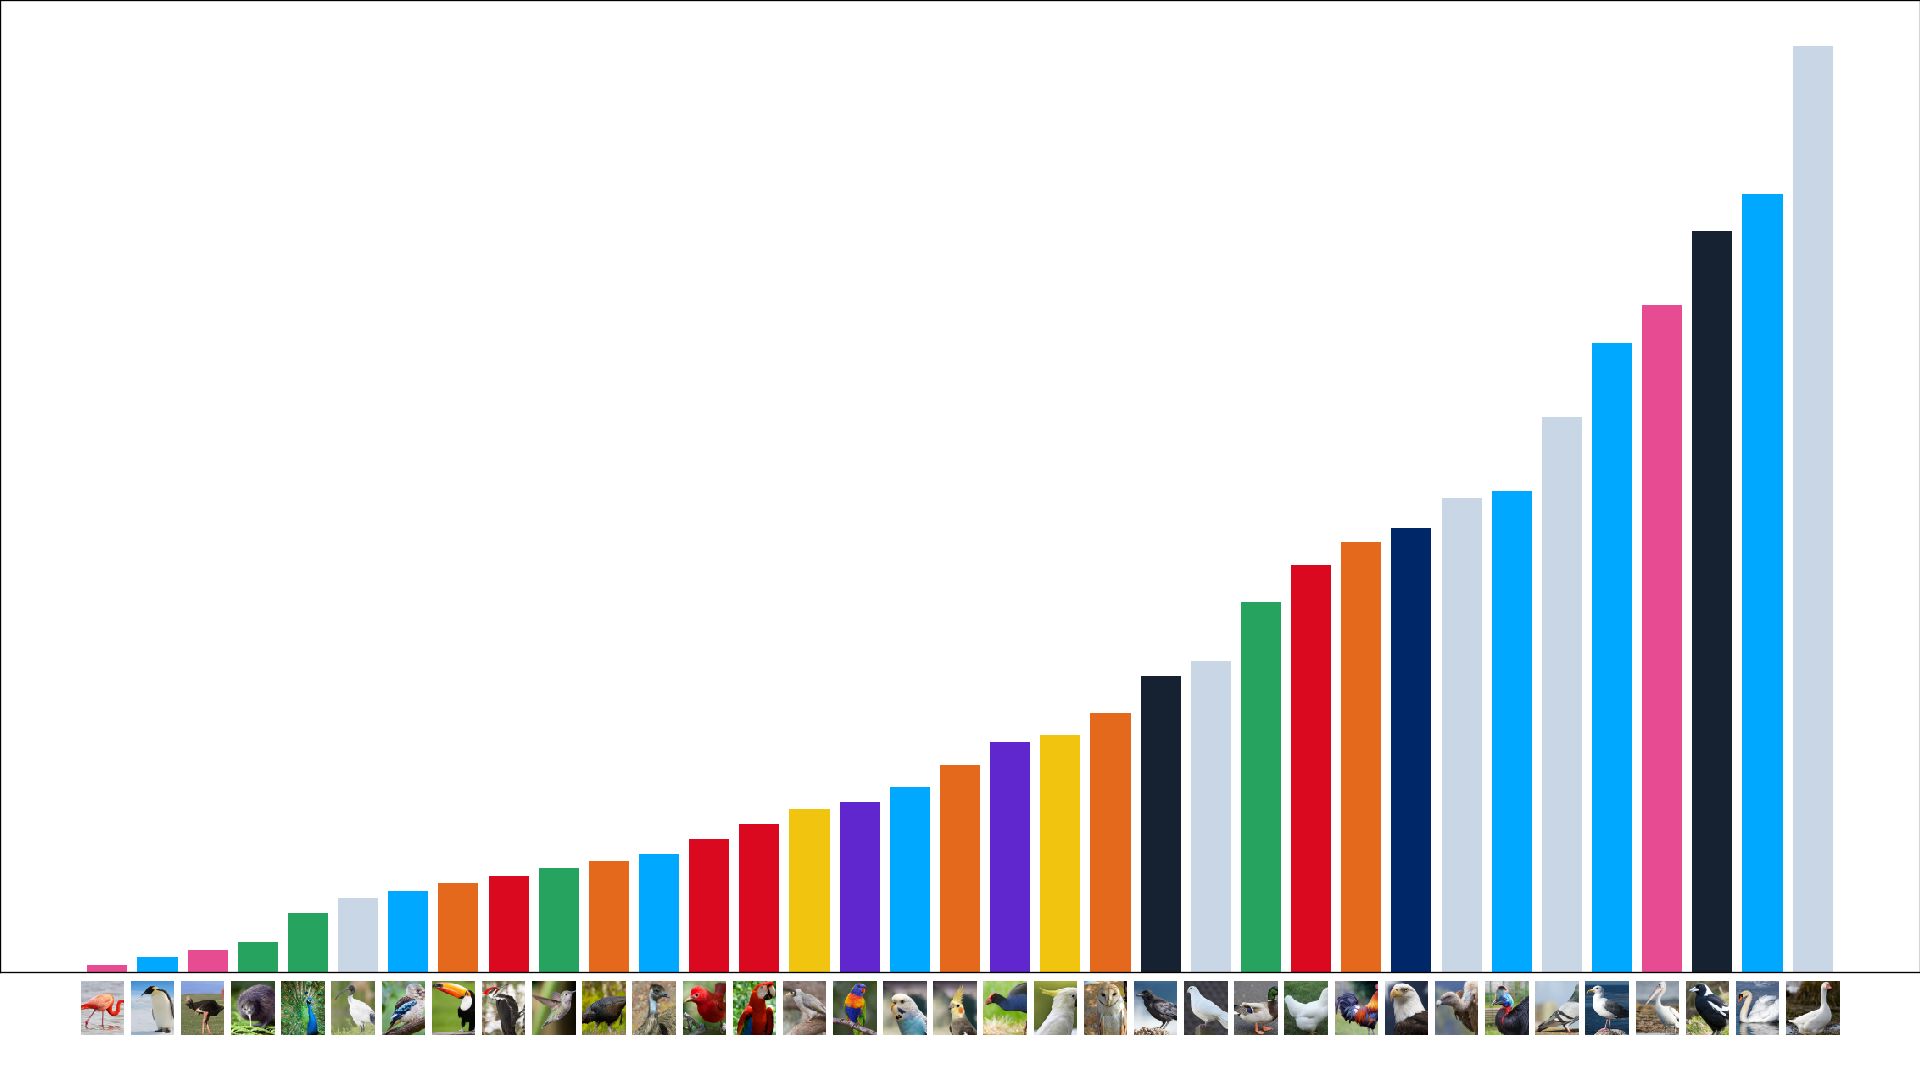
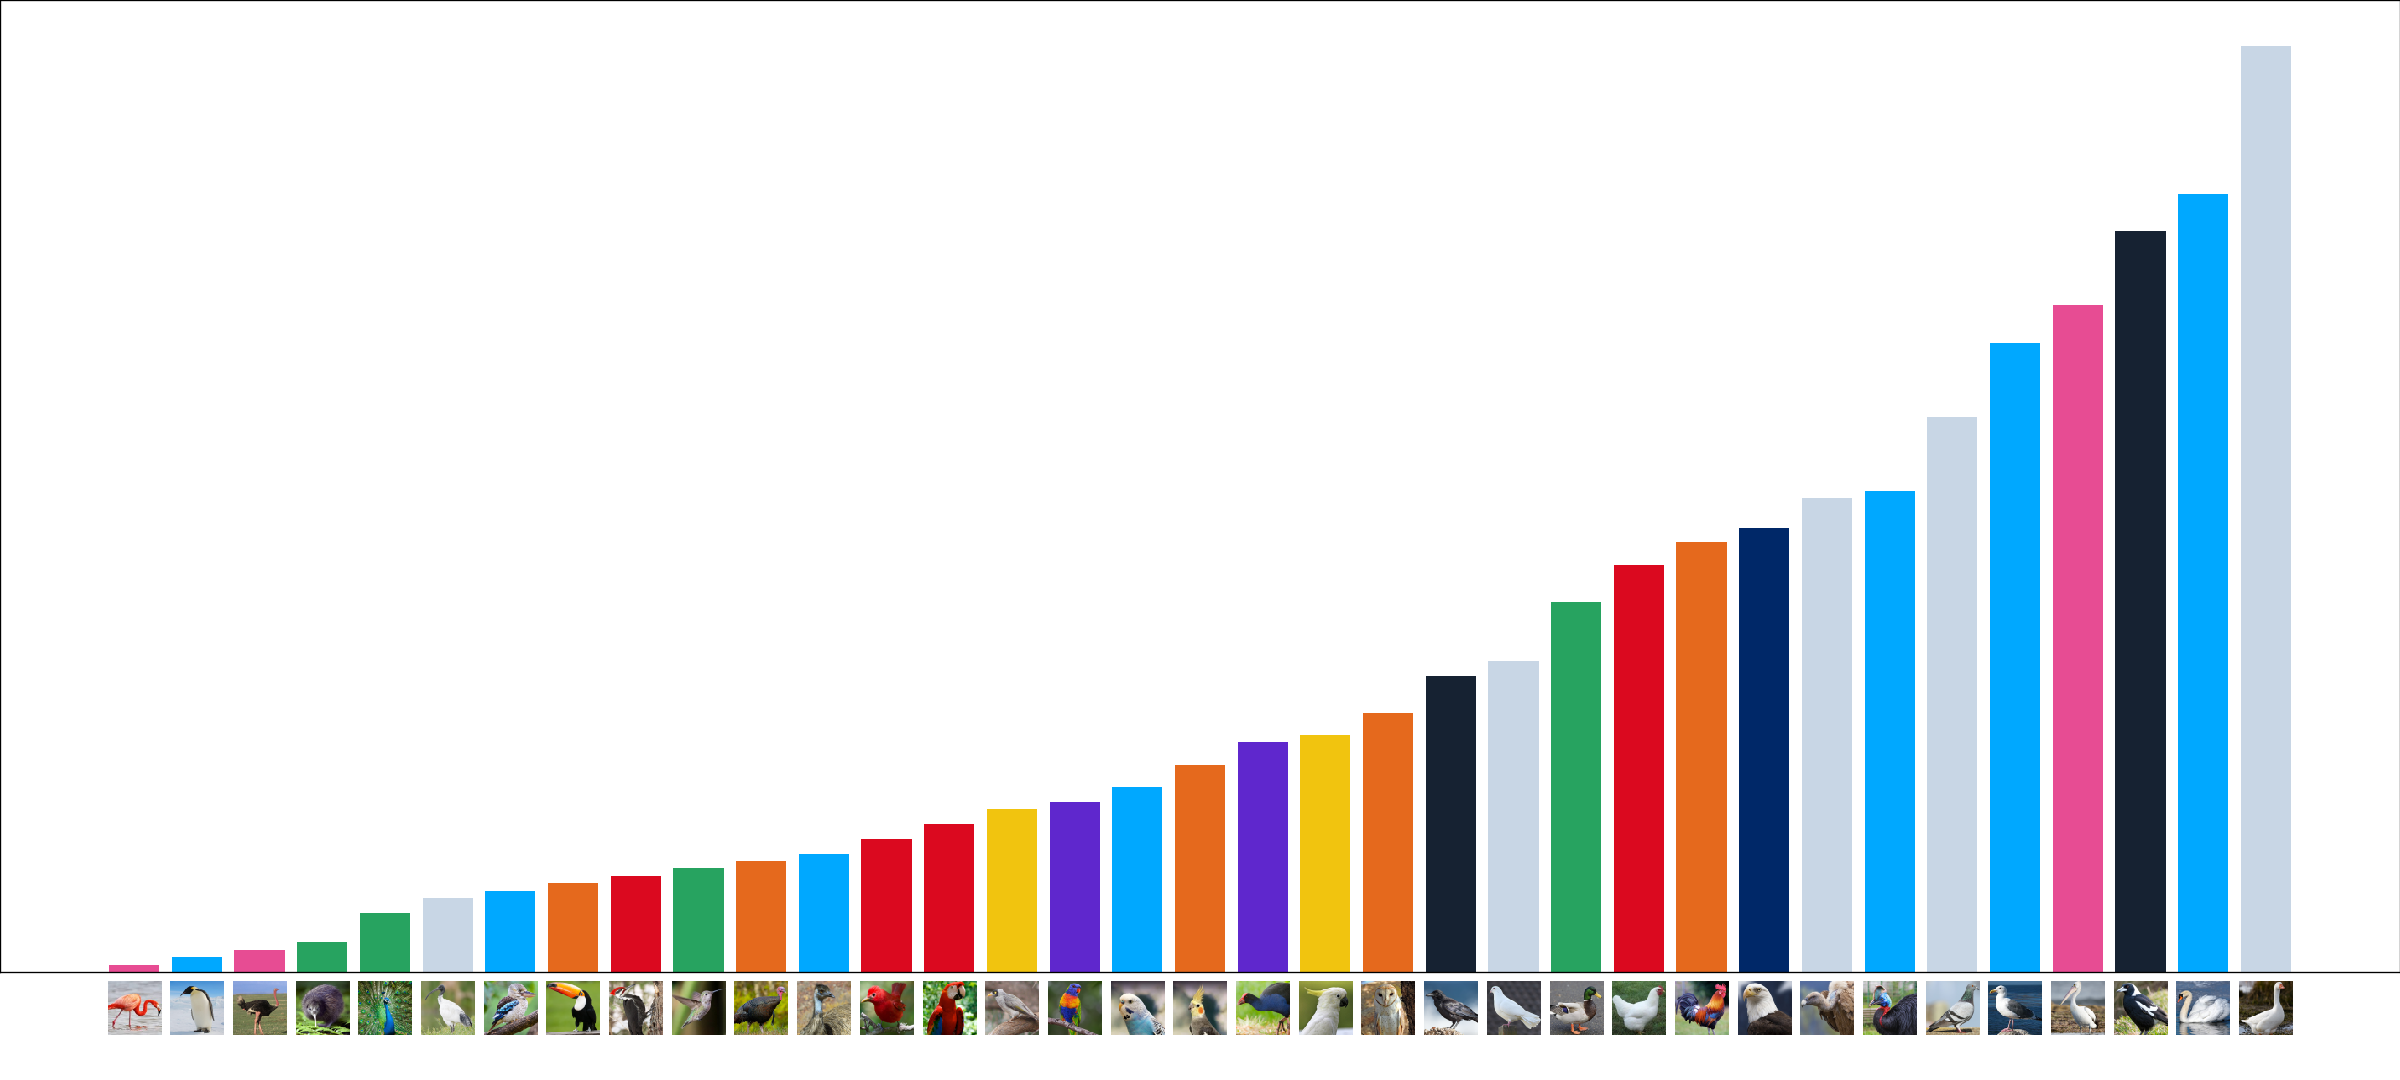
Bird Chart: Adjust resolution

Changed region(s): [[0.0312, 0.8861, 0.9688, 0.9778]]

diff --git a/birdchart/birdchart.py b/birdchart/birdchart.py
@@ -46,6 +46,6 @@ for i in range(len(data)):
     ax.add_artist(annotate)
 
 # Adjust the figure resolution so the output is a 16:9 1080p image
-fig.set_size_inches((16, 9), forward=False)
+fig.set_size_inches((20, 9), forward=False)
 fig.savefig('output.png', dpi=120)
 plt.show()
